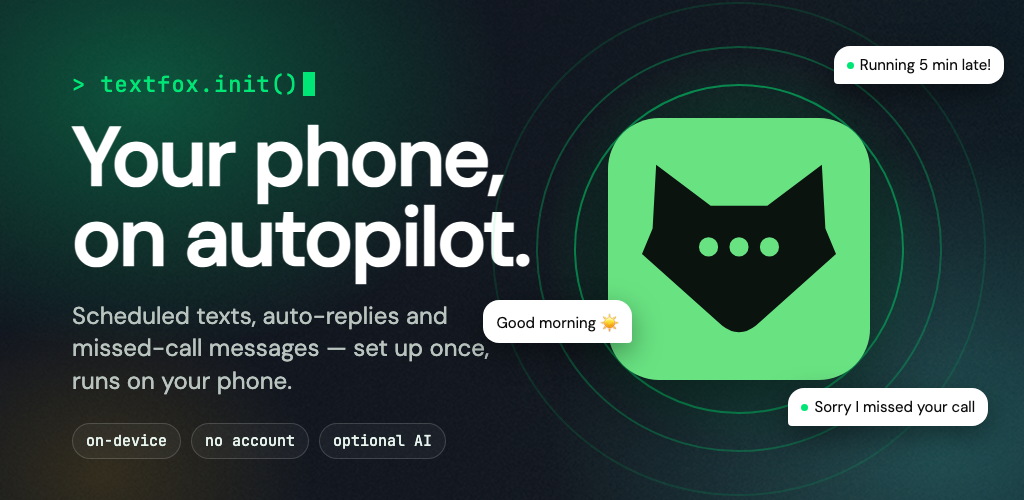
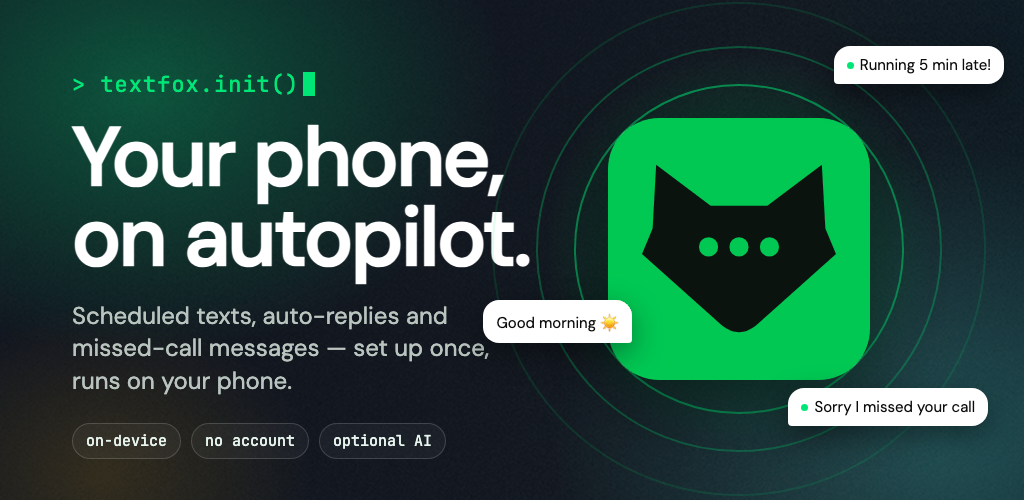
Brand pass: darker fox green, footer fox, typing dots, widget badge, shortcuts; 1.9.3
- One fox green (#00C853, Primary a shade darker) for the launcher icon, splash,
  intro, list header and footer; store icon, feature graphic and SVG masters recoloured
- Settings footer: the fox over the version line
- TypingDots: the fox's hopping dots replace spinners while AI writes / keys are tested
- Widgets carry a small fox badge (button, wide layout and picker preview)
- Launcher long-press shortcuts: New macro (opens an empty editor) and Log
- versionCode 13, versionName 1.9.3

Changed region(s): [[0.5938, 0.21, 0.875, 0.78]]

diff --git a/app/src/main/java/com/vibeactions/ui/MainActivity.kt b/app/src/main/java/com/vibeactions/ui/MainActivity.kt
@@ -32,6 +32,10 @@ import com.vibeactions.ui.theme.Primary
 import androidx.compose.ui.platform.LocalContext
 import androidx.compose.ui.unit.dp
 import androidx.core.content.ContextCompat
+import androidx.core.content.pm.ShortcutInfoCompat
+import androidx.core.content.pm.ShortcutManagerCompat
+import androidx.core.graphics.drawable.IconCompat
+import com.vibeactions.R
 import androidx.lifecycle.Lifecycle
 import androidx.lifecycle.LifecycleEventObserver
 import androidx.lifecycle.compose.LocalLifecycleOwner
@@ -87,6 +91,7 @@ class MainActivity : ComponentActivity() {
         if (Build.VERSION.SDK_INT >= Build.VERSION_CODES.S) {
             splashScreen.setOnExitAnimationListener { it.remove() }
         }
+        publishShortcuts()
         // On recreation (process death, config change) Android hands back the original launch
         // intent; replaying it would yank the user back to the Log / approval dialog every time.
         if (savedInstanceState == null) {
@@ -151,6 +156,30 @@ class MainActivity : ComponentActivity() {
         )
     }
 
+    /** Long-press shortcuts on the launcher icon. Dynamic rather than res/xml so the intents
+     *  name this build's own package (the side-by-side ".test" build included). */
+    private fun publishShortcuts() {
+        fun shortcut(id: String, label: String, icon: Int, nav: String) =
+            ShortcutInfoCompat.Builder(this, id)
+                .setShortLabel(label)
+                .setIcon(IconCompat.createWithResource(this, icon))
+                .setIntent(
+                    Intent(this, MainActivity::class.java)
+                        .setAction(Intent.ACTION_VIEW)
+                        .putExtra(EXTRA_NAV, nav)
+                )
+                .build()
+        runCatching {
+            ShortcutManagerCompat.setDynamicShortcuts(
+                this,
+                listOf(
+                    shortcut("new_macro", "New macro", R.drawable.shortcut_new, NAV_NEW_MACRO),
+                    shortcut("log", "Log", R.drawable.shortcut_log, "log")
+                )
+            )
+        }
+    }
+
     private fun hasGeminiKey(context: Context) =
         !context.getSharedPreferences("ai_settings", Context.MODE_PRIVATE)
             .getString("gemini_api_key", null).isNullOrBlank()
@@ -165,6 +194,8 @@ class MainActivity : ComponentActivity() {
         const val EXTRA_NAV = "nav"
         const val EXTRA_AI_NOTE = "ai_note"
         const val EXTRA_INCOMING = "incoming"
+        /** EXTRA_NAV value that opens the list with an empty editor. */
+        const val NAV_NEW_MACRO = "new_macro"
     }
 }
 
@@ -300,9 +331,13 @@ private fun AppRoot(
 
     // A notification asked us to open a specific tab (e.g. the Log). Navigate once, then clear it so
     // it doesn't re-fire on recomposition.
+    var openNewMacro by remember { mutableStateOf(false) }
     LaunchedEffect(navTarget) {
         if (navTarget != null) {
-            navigateTab(navTarget)
+            if (navTarget == MainActivity.NAV_NEW_MACRO) {
+                navigateTab("list")
+                openNewMacro = true
+            } else navigateTab(navTarget)
             onNavConsumed()
         }
     }
@@ -363,6 +398,8 @@ private fun AppRoot(
             NavHost(nav, startDestination = "list", modifier = Modifier.padding(p).consumeWindowInsets(p)) {
                 composable("list") {
                     MacroListScreen(
+                        openNewMacro = openNewMacro,
+                        onNewMacroOpened = { openNewMacro = false },
                         banner = {
                             if (missingSetup > 0) {
                                 PermissionBanner(

diff --git a/app/src/main/java/com/vibeactions/ui/settings/SettingsScreen.kt b/app/src/main/java/com/vibeactions/ui/settings/SettingsScreen.kt
@@ -1,7 +1,9 @@
 package com.vibeactions.ui.settings
 
+import com.vibeactions.ui.common.TypingDots
 import android.content.Intent
 import com.vibeactions.ui.common.SentenceKeyboard
+import com.vibeactions.R
 import com.vibeactions.widget.MacroWidgetProvider
 import com.vibeactions.widget.MacroWidgetConfigActivity
 import androidx.compose.material.icons.filled.Widgets
@@ -24,6 +26,7 @@ import androidx.compose.material3.*
 import androidx.compose.runtime.*
 import androidx.compose.ui.Alignment
 import androidx.compose.ui.Modifier
+import androidx.compose.ui.res.painterResource
 import androidx.compose.ui.graphics.Color
 import androidx.compose.ui.platform.LocalContext
 import androidx.compose.ui.platform.LocalFocusManager
@@ -57,6 +60,7 @@ import com.vibeactions.ui.common.ScreenHeader
 import com.vibeactions.ui.editor.EditorSection
 import com.vibeactions.ui.editor.Hint
 import com.vibeactions.ui.editor.SwitchRow
+import com.vibeactions.ui.theme.FoxGreen
 import com.vibeactions.ui.theme.JetBrainsMono
 import androidx.hilt.navigation.compose.hiltViewModel
 import com.vibeactions.BuildConfig
@@ -297,7 +301,7 @@ fun SettingsScreen(
                         modifier = Modifier.weight(1f)
                     ) {
                         if (apiTestLoading)
-                            CircularProgressIndicator(Modifier.size(16.dp), strokeWidth = 2.dp)
+                            TypingDots(dot = 5.dp)
                         else
                             Text("Test key")
                     }
@@ -355,6 +359,11 @@ fun SettingsScreen(
                 }
             }
 
+            // The sign-off: the fox over the version line.
+            Icon(
+                painterResource(R.drawable.ic_stat_textfox), contentDescription = null, tint = FoxGreen,
+                modifier = Modifier.align(Alignment.CenterHorizontally).padding(top = 8.dp).size(36.dp)
+            )
             Row(
                 modifier = Modifier
                     .align(Alignment.CenterHorizontally)

diff --git a/app/src/main/java/com/vibeactions/ui/macrolist/MacroListScreen.kt b/app/src/main/java/com/vibeactions/ui/macrolist/MacroListScreen.kt
@@ -45,6 +45,7 @@ import com.vibeactions.ui.common.FolderCard
 import com.vibeactions.ui.common.MacroCard
 import com.vibeactions.ui.editor.MacroEditorScreen
 import com.vibeactions.ui.editor.MacroEditorViewModel
+import com.vibeactions.ui.theme.FoxGreen
 import com.vibeactions.ui.theme.JetBrainsMono
 import com.vibeactions.ui.theme.OnPrimary
 import com.vibeactions.ui.theme.OnSurface
@@ -64,6 +65,9 @@ import sh.calvin.reorderable.rememberReorderableLazyGridState
 @Composable
 fun MacroListScreen(
     banner: @Composable () -> Unit = {},
+    /** Set by the "New macro" launcher shortcut: open an empty editor once. */
+    openNewMacro: Boolean = false,
+    onNewMacroOpened: () -> Unit = {},
     vm: MacroListViewModel = hiltViewModel()
 ) {
     val macros by vm.macros.collectAsStateWithLifecycle()
@@ -96,6 +100,13 @@ fun MacroListScreen(
 
     var showEditor by remember { mutableStateOf(false) }
     var editorMacroId by remember { mutableStateOf<String?>(null) }
+    LaunchedEffect(openNewMacro) {
+        if (openNewMacro) {
+            editorMacroId = null
+            showEditor = true
+            onNewMacroOpened()
+        }
+    }
     var query by remember { mutableStateOf("") }
     var searchOpen by remember { mutableStateOf(false) }
     // Filter for display; reordering is disabled while searching (dragging a filtered subset would
@@ -254,7 +265,7 @@ fun MacroListScreen(
                     Icon(
                         painterResource(R.drawable.ic_stat_textfox),
                         contentDescription = "TextFox",
-                        tint = if (macros.any { it.enabled }) Primary else OnSurfaceVariant,
+                        tint = if (macros.any { it.enabled }) FoxGreen else OnSurfaceVariant,
                         modifier = Modifier.size(30.dp)
                     )
                     Spacer(Modifier.weight(1f))

diff --git a/app/src/main/java/com/vibeactions/ui/common/TypingDots.kt b/app/src/main/java/com/vibeactions/ui/common/TypingDots.kt
@@ -1,0 +1,40 @@
+package com.vibeactions.ui.common
+
+import androidx.compose.animation.core.LinearEasing
+import androidx.compose.animation.core.RepeatMode
+import androidx.compose.animation.core.animateFloat
+import androidx.compose.animation.core.infiniteRepeatable
+import androidx.compose.animation.core.rememberInfiniteTransition
+import androidx.compose.animation.core.tween
+import androidx.compose.foundation.Canvas
+import androidx.compose.foundation.layout.size
+import androidx.compose.runtime.Composable
+import androidx.compose.runtime.getValue
+import androidx.compose.ui.Modifier
+import androidx.compose.ui.geometry.Offset
+import androidx.compose.ui.graphics.Color
+import androidx.compose.ui.unit.Dp
+import androidx.compose.ui.unit.dp
+import com.vibeactions.ui.theme.FoxGreen
+import kotlin.math.PI
+import kotlin.math.abs
+import kotlin.math.sin
+
+/** The fox's three dots hopping like a "typing" bubble: TextFox's sign that AI is at work.
+ *  [dot] is one dot's diameter; the whole row is 4.4 dots wide and 2 dots tall. */
+@Composable
+fun TypingDots(modifier: Modifier = Modifier, dot: Dp = 6.dp, color: Color = FoxGreen) {
+    val phase by rememberInfiniteTransition(label = "typing").animateFloat(
+        0f, 1f, infiniteRepeatable(tween(1100, easing = LinearEasing), RepeatMode.Restart),
+        label = "typingPhase"
+    )
+    Canvas(modifier.size(dot * 4.4f, dot * 2f)) {
+        val r = dot.toPx() / 2f
+        repeat(3) { i ->
+            // Each dot hops during its own third-ish of the cycle, then rests.
+            val t = (phase * 1.6f - i * 0.2f).coerceIn(0f, 1f)
+            val lift = abs(sin(t * PI).toFloat()) * r
+            drawCircle(color, r, Offset(r + i * r * 3.4f, size.height - r - lift))
+        }
+    }
+}

diff --git a/app/src/main/java/com/vibeactions/ui/editor/MacroEditorScreen.kt b/app/src/main/java/com/vibeactions/ui/editor/MacroEditorScreen.kt
@@ -1,5 +1,6 @@
 package com.vibeactions.ui.editor
 
+import com.vibeactions.ui.common.TypingDots
 import androidx.compose.animation.core.RepeatMode
 import com.vibeactions.ui.common.SentenceKeyboard
 import androidx.compose.animation.core.animateFloat
@@ -1180,8 +1181,11 @@ fun MacroEditorScreen(
                             )
                         }
                         AiState.Loading -> {
-                            CircularProgressIndicator(Modifier.align(Alignment.CenterHorizontally))
-                            Text("Generating suggestions…", style = MaterialTheme.typography.bodySmall)
+                            TypingDots(Modifier.align(Alignment.CenterHorizontally).padding(vertical = 8.dp), dot = 10.dp)
+                            Text(
+                                "Writing suggestions…", style = MaterialTheme.typography.bodySmall,
+                                modifier = Modifier.align(Alignment.CenterHorizontally)
+                            )
                         }
                         is AiState.Suggestions -> {
                             st.items.forEach { suggestion ->

diff --git a/app/src/main/java/com/vibeactions/ui/common/BrandIntro.kt b/app/src/main/java/com/vibeactions/ui/common/BrandIntro.kt
@@ -28,6 +28,7 @@ import androidx.compose.ui.unit.dp
 import androidx.compose.ui.unit.sp
 import com.vibeactions.ui.theme.Background
 import com.vibeactions.ui.theme.DmSans
+import com.vibeactions.ui.theme.FoxGreen
 import com.vibeactions.ui.theme.OnSurface
 import kotlinx.coroutines.async
 import kotlinx.coroutines.awaitAll
@@ -38,8 +39,7 @@ import kotlin.math.PI
 import kotlin.math.abs
 import kotlin.math.sin
 
-/** The launcher icon's green and the fox's dark fill (`drawable/ic_launcher_foreground.xml`). */
-private val FoxGreen = Color(0xFF69E382)
+/** The fox's dark fill (`drawable/ic_launcher_foreground.xml`). */
 private val FoxDark = Color(0xFF0B130E)
 
 /** The fox head from the launcher icon, in its 108-unit adaptive-icon viewport, without the dot

diff --git a/app/src/main/java/com/vibeactions/ui/onboarding/OnboardingScreen.kt b/app/src/main/java/com/vibeactions/ui/onboarding/OnboardingScreen.kt
@@ -1,5 +1,6 @@
 package com.vibeactions.ui.onboarding
 
+import com.vibeactions.ui.common.TypingDots
 import android.content.Context
 import android.content.Intent
 import android.net.Uri
@@ -475,7 +476,7 @@ private fun AiPage(
         enabled = apiKey.isNotBlank() && !testing,
         modifier = Modifier.fillMaxWidth()
     ) {
-        if (testing) CircularProgressIndicator(Modifier.size(16.dp), strokeWidth = 2.dp, color = Teal)
+        if (testing) TypingDots(dot = 5.dp, color = Teal)
         else Text("Test key", fontFamily = DmSans)
     }
     AnimatedContent(keyWorks, label = "result") { ok ->

diff --git a/app/src/main/java/com/vibeactions/ui/theme/Color.kt b/app/src/main/java/com/vibeactions/ui/theme/Color.kt
@@ -6,6 +6,8 @@ val Background = Color(0xFF0D0D0D)
 val Surface = Color(0xFF1A1A1A)
 val SurfaceVariant = Color(0xFF242424)
 val Primary = Color(0xFF00E676)
+/** The fox logo's green: Primary a shade darker. Same value as res/values/colors.xml ic_launcher_background. */
+val FoxGreen = Color(0xFF00C853)
 val OnPrimary = Color(0xFF000000)
 val ErrorRed = Color(0xFFFF5252)
 val OnSurface = Color(0xFFF0F0F0)
